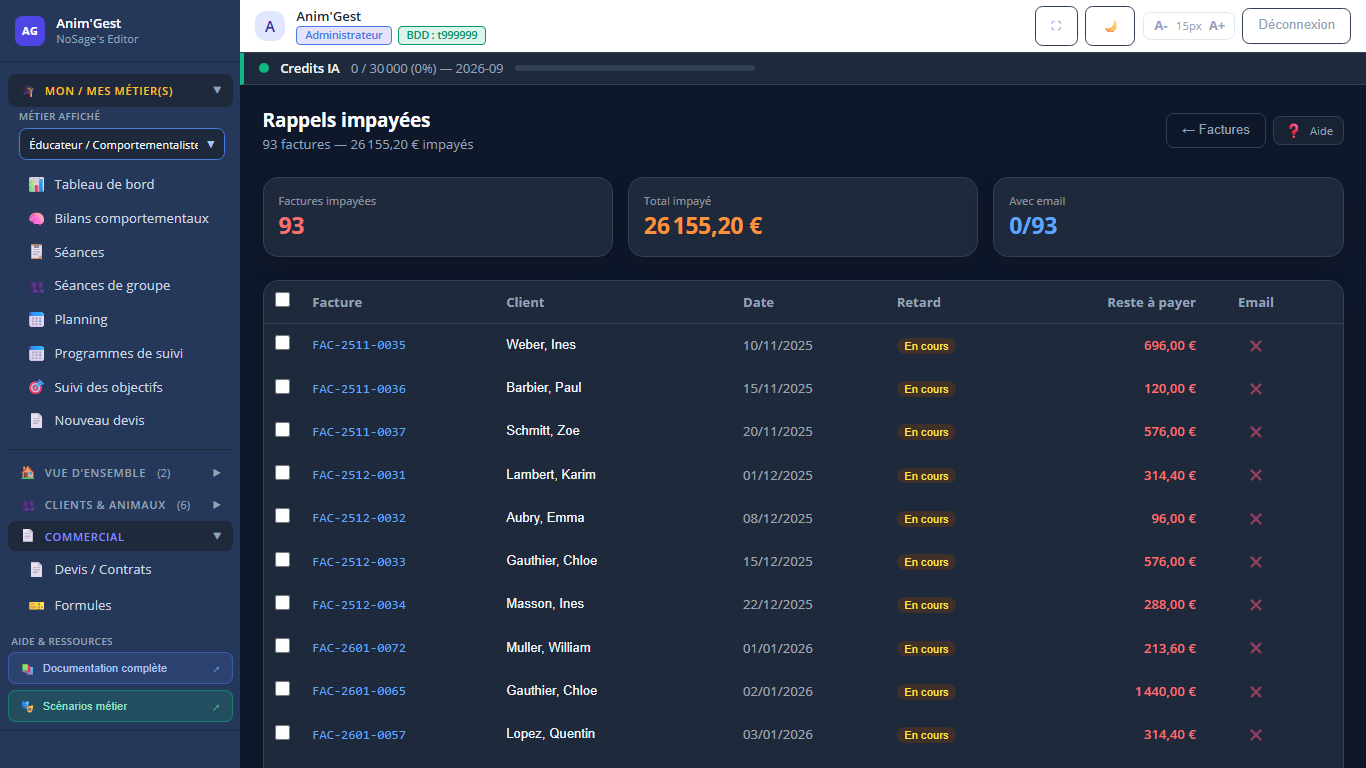
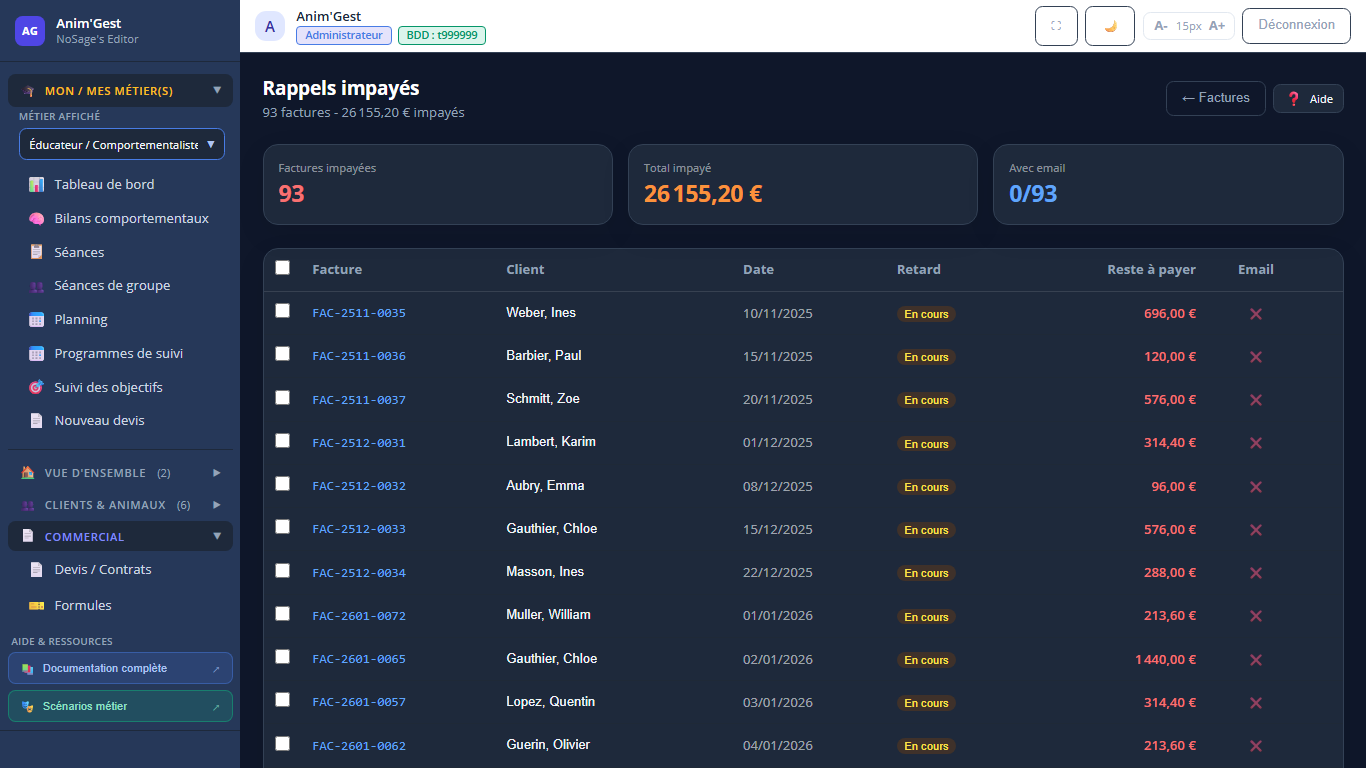
docs(aide): capture rappels-impayes finale + legende de demonstration ratifiee (option B)

diff --git a/aide/commercial.rappels-impayes.html b/aide/commercial.rappels-impayes.html
@@ -23,8 +23,8 @@
 <p>Ce n&#39;est pas un détail de confort : selon le bouton, votre client reçoit ou non sa facture. Chaque cas a son article dédié.</p>
 <h2>Bon à savoir</h2>
 <p>Un rappel ne modifie jamais la facture : elle reste une pièce définitive. Seul un message part au client.</p>
-<figure class="aide-capture"><img src="_captures/commercial.rappels-impayes/01.png" alt="Liste des factures impayées à relancer"><figcaption>Liste des factures impayées à relancer<span class="aide-demo">Les chiffres affichés sont des données de démonstration : ils illustrent l&#39;écran et ne reflètent pas votre base.</span></figcaption></figure>
-<figure class="aide-capture"><img src="_captures/commercial.rappels-impayes/02.png" alt="En-tête : total impayé et barre d&#39;actions de relance"><figcaption>En-tête : total impayé et barre d&#39;actions de relance<span class="aide-demo">Les chiffres affichés sont des données de démonstration : ils illustrent l&#39;écran et ne reflètent pas votre base.</span></figcaption></figure>
+<figure class="aide-capture"><img src="_captures/commercial.rappels-impayes/01.png" alt="Liste des factures impayées à relancer"><figcaption>Liste des factures impayées à relancer<span class="aide-demo">Les valeurs visibles illustrent la présentation de l&#39;écran, pas l&#39;état réel de vos données.</span></figcaption></figure>
+<figure class="aide-capture"><img src="_captures/commercial.rappels-impayes/02.png" alt="En-tête : total impayé et barre d&#39;actions de relance"><figcaption>En-tête : total impayé et barre d&#39;actions de relance<span class="aide-demo">Les valeurs visibles illustrent la présentation de l&#39;écran, pas l&#39;état réel de vos données.</span></figcaption></figure>
 <h2>Les t&acirc;ches de cet &eacute;cran</h2><a class="carte" href="commercial.rappels-impayes.envoyer-lot.html"><b>Envoyer plusieurs rappels d&#39;un coup</b> <span>Cocher des factures et envoyer les rappels en lot, avec le PDF joint. Le texte n&#39;est pas modifiable, et les clients sans email sont silencieusement laissés de côté.</span></a>
 <a class="carte" href="commercial.rappels-impayes.envoyer-un.html"><b>Envoyer un rappel à un client</b> <span>Ouvrir la fenêtre de rappel d&#39;une ligne, ajuster l&#39;objet et le message, envoyer. La facture n&#39;est PAS jointe dans ce mode.</span></a>
 <a class="carte" href="commercial.rappels-impayes.personnaliser-texte.html"><b>Personnaliser le texte d&#39;un rappel</b> <span>Adapter l&#39;objet et le message avant l&#39;envoi. La personnalisation n&#39;existe QUE pour un rappel envoyé ligne par ligne.</span></a>

diff --git a/aide/index.html b/aide/index.html
@@ -88,7 +88,7 @@
 <a class="carte" href="elevage.reservations.html"><b>Réservations</b> <span>Les réservations de chiots : client, portée, sexe souhaité, acompte et statut, avec saisie directe d&#39;un acompte et compteurs de suivi.</span></a>
 <a class="carte" href="elevage.saillie-detail.html"><b>Saillie : détail et création</b> <span>Enregistrer une saillie : femelle, mâle, date, type, espèce et durée de gestation, avec date de terme estimée et création automatique des alertes de déclaration.</span></a>
 <a class="carte" href="elevage.saillies.html"><b>Saillies</b> <span>Le registre des saillies : femelle, mâle, date, type, vétérinaire et commentaire, avec recherche par femelle ou par mâle.</span></a>
-<h2 id="theme-facturation">Commercial</h2>
+<h2 id="theme-facturation">Facturation</h2>
 <a class="carte" href="commercial.avoir-detail.html"><b>Détail d&#39;un avoir client</b> <span>La fiche d&#39;un avoir : la facture qu&#39;il corrige, ses montants, son motif, et son PDF.</span></a>
 <a class="carte" href="commercial.avoirs.html"><b>Avoirs</b> <span>Le registre des avoirs, clients et fournisseurs réunis : numéro, date, client, facture d&#39;origine, montant TTC et statut, avec quatre compteurs en tête d&#39;écran.</span></a>
 <a class="carte" href="commercial.avoirs.consulter.html"><b>Consulter les avoirs (clients et fournisseurs)</b> <span>Lire le registre des avoirs, distinguer clients et fournisseurs sans filtrer, et rebondir sur la facture d&#39;origine ou sur la fiche du client.</span></a>
